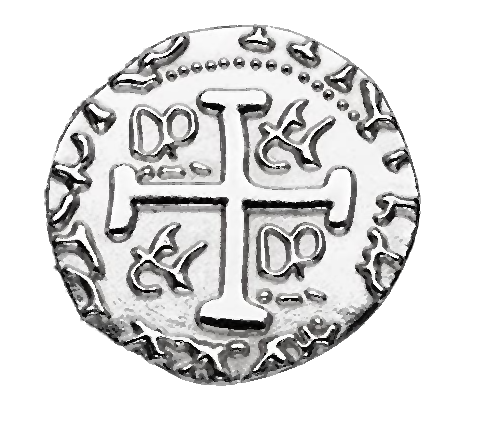
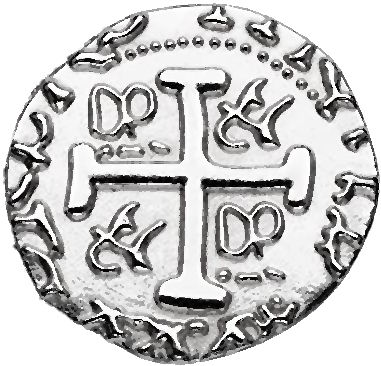
minor visual bug fixes

diff --git a/assets/css/main.css b/assets/css/main.css
@@ -40,6 +40,10 @@ html, body {
   margin-bottom: 25px;
 }
 
+.coin-image {
+  width: 100%;
+}
+
 .confirmation-text {
   font-size: 12px;
   text-align: center;

diff --git a/cliffhanger/pages/play.py b/cliffhanger/pages/play.py
@@ -18,7 +18,7 @@ def get_coin_modal():
     return dbc.Modal([
             dbc.ModalHeader(dbc.ModalTitle("Get 100 Coin!")),
             dbc.ModalBody([
-                html.Img(src='/assets/images/coin.png'),
+                html.Img(src='/assets/images/coin.png', className="coin-image"),
             ]),
             dbc.ModalFooter(
                 dbc.Button("Got it!", id="close-coin-modal", className="ms-auto", n_clicks=0)
